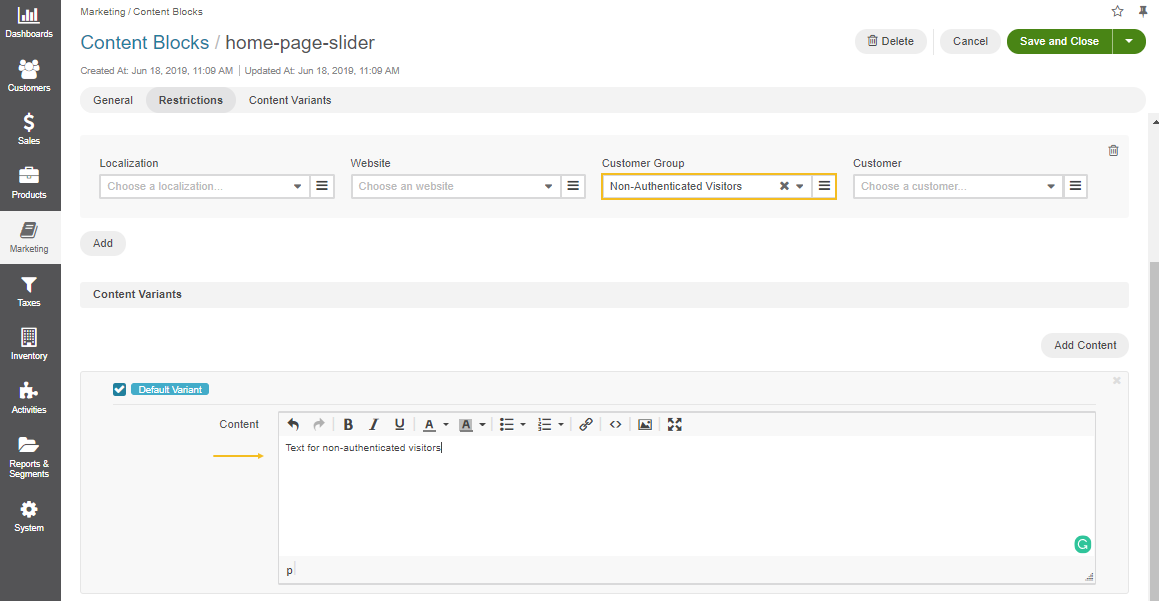
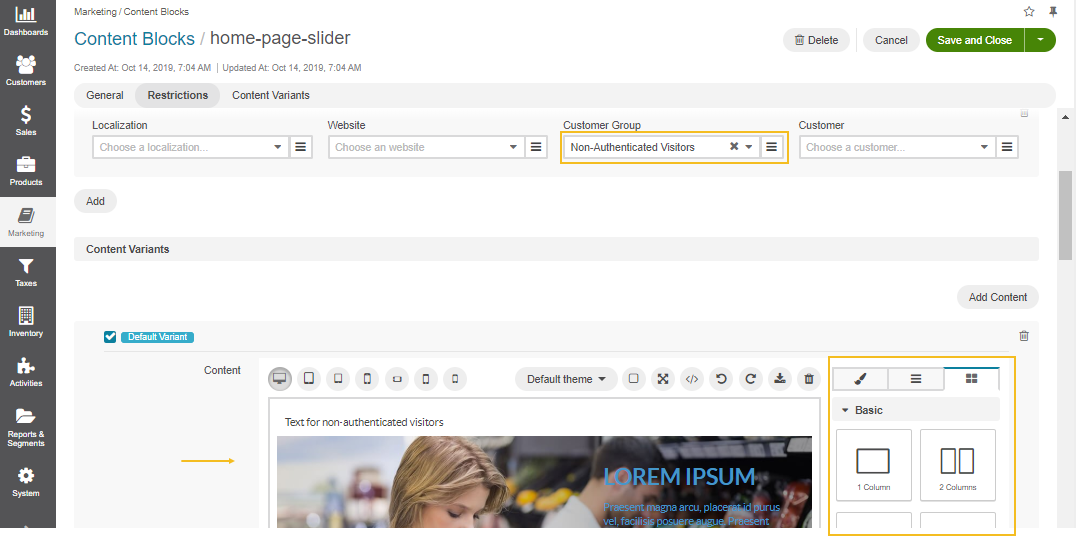
DOC-1391: Document a new WYSIWYG form functionality (#25505)
* DOC-1391: Document a new WYSIWYG form functionality

* Updated dev.locks

* Updated dev.locks

diff --git a/user/back-office/system/entities/entity-fields/entity-fields-basic-properties.rst b/user/back-office/system/entities/entity-fields/entity-fields-basic-properties.rst
@@ -20,6 +20,8 @@ The first step of creating a new entity field is providing information on its ba
 
    * **Serialized field** --- Use this storage type for simple fields that keep information necessary for a single entity. The field will appear in the system as soon as it has been added, and no :ref:`schema update <schema update>` is required. Serialized fields cannot be used for :ref:`grid filters <doc-grids-actions-filters>`, :ref:`report <user-guide-reports>` and :ref:`chart <user-guide--business-intelligence--reports--use-custom-reports>` generation, data audit, creation of :ref:`segments <user-guide-filters-segments>` and relations (many to many, one to many, many to one). In addition, they cannot be used for files, multi-selects or option sets.
 
+.. _field-file-types:
+
 3. **Type** --- Select a field type from the list:
 
    * **BigInt** --- Select this type if the values of this field must be very big positive or negative whole numbers like 111222333444555. Save range is from -999,999,999,999,999 to 999,999,999,999,999.
@@ -43,7 +45,8 @@ The first step of creating a new entity field is providing information on its ba
    * **File** --- Select this type if you are going to use this field to store files. If you need to store image files with .gif, .jpeg or .png file extensions, consider the *Image* file type instead.   
    * **Image** --- Select this type if you are going to use this field to store images (e.g. photos). The thumbnail of the uploaded image will be displayed in the entity record. You will be able to download the full image by clicking this thumbnail. 
    * **Select** --- Use this type if you want your field to be a list that enables users to select one value at a time. For example, the 'Grade Service' list that contains values from 1 to 5.
-   * **Multi-Select** --- Use this type if you want your field to be a set of check boxes. Users will be able to select several values at a time. For example, the 'Working Days' list that contains days of week. 
+   * **Multi-Select** --- Use this type if you want your field to be a set of check boxes. Users will be able to select several values at a time. For example, the 'Working Days' list that contains days of week.
+   * **WYSIWYG** --- Use this type if you want to add the WYSIWYG text editor to your entity. The editor enables you to customize the content of the selected entity the way you desire. You will be able to add images and videos, link buttons and external websites, insert a content widget or a source code, and modify these elements by navigating from tab to tab in the WYSIWYG editor's manager panel.
    
    .. note:: Relation is a field that enables users to tie record(s) of one entity to record(s) of another entity.
 

diff --git a/user/back-office/marketing/landing-pages/index.rst b/user/back-office/marketing/landing-pages/index.rst
@@ -39,13 +39,13 @@ To create a new landing page:
 
 #. Fill in the landing page title (**Titles**) and translate it into the languages supported in your Oro configuration.
 
-   To manage title translations, click |IcTranslations| next to the **Titles** box and follow the guidance :ref:`here <localization--localization>`).
+   To manage title translations, click |IcTranslations| next to the **Titles** box and follow the guidance :ref:`here <localization--localization>`.
 
 #. Click on the Slug Prototypes box. The default slug prototype will be autogenerated. Edit the value to customize the default.
 
-   To ensure that slug prototype translation is localization-friendly, manage slug prototype translations: click |IcTranslations| next to the **Slug Prototypes** box and follow the guidance :ref:`here <localization--localization>`).
+   To ensure that slug prototype translation is localization-friendly, manage slug prototype translations: click |IcTranslations| next to the **Slug Prototypes** box and follow the guidance :ref:`here <localization--localization>`.
 
-#. Enter the landing page content in the WYSIWYG text editor or use the source code mode (**<>**) to enter the html code.
+#. Enter the landing page content in the WYSIWYG text editor. Drag the selected element (a text, an image, a column, or a source code) from the editor's manager panel and drop it to the required location. Rearrange the content or modify the style of the elements by navigating from tab to tab in the WYSIWYG editor's manager bar.
 
    .. note:: You can insert the *Contact Us widget* into the required page. For this, enter ``{{widget('contact_us_form')}}`` in the text editor and click **Save** in the top right corner. Once the landing page is added as a content variant to the content node of a web catalog, the form should then become visible in the storefront.
 

diff --git a/user/back-office/products/product-attributes/index.rst b/user/back-office/products/product-attributes/index.rst
@@ -57,7 +57,7 @@ To create an attribute:
       :header: "Field", "Description"
       :widths: 10, 30
 
-      "**Field Name**", "Fill in the field name that should be used to store the values of the product attribute. It should be between 2 and 22 characters long. Use only alphabetic symbols, underscore and numbers. "
+      "**Field Name**","Fill in the field name that should be used to store the values of the product attribute. It should be between 2 and 22 characters long. Use only alphabetic symbols, underscore and numbers. For the list of available field types and their purposes, refer to the :ref:`relevant section <field-file-types>` of the Entity Field Properties topic."
       "**Type**","Select an attribute type to store the value of the specific data type. Select one of the **Relations** for the attribute to connect your custom entities as product information (these can be used for business intelligence and segments):
         - **Many to many** -- No limit of how many entity records of the selected type can be connected to the attribute, e.g., many custom entity records can be related to many products.
         - **Many to one** -- Attributes cannot have more than one entity record related to them, e.g., Products A-Z can relate to Promotion A. Product A cannot relate to multiple promotions. You can reuse the same promotion in multiple product details.

diff --git a/user/back-office/marketing/content-blocks/index.rst b/user/back-office/marketing/content-blocks/index.rst
@@ -45,6 +45,8 @@ For instance, you can set the content block to have a specific text displayed fo
 1. Set visibility restrictions to *Non-authenticated Visitors* in **Restrictions > Customer Groups**.
 2. Add a new content variant by clicking **Add Content** in the **Content Variant** section.
 3. Enter text.
+4. Drag the selected element (a text, an image, a column, or a **<>** source code) from the editor's manager panel and drop it to the required location.
+5. Rearrange the content or modify the style of the elements by navigating from tab to tab of the WYSIWYG editor's manager panel.
 
    .. image:: /user/img/marketing/content_blocks/ContentBlocksSample.png
       :alt: A sample of a content block's restriction setting for non-authenticated visitors
